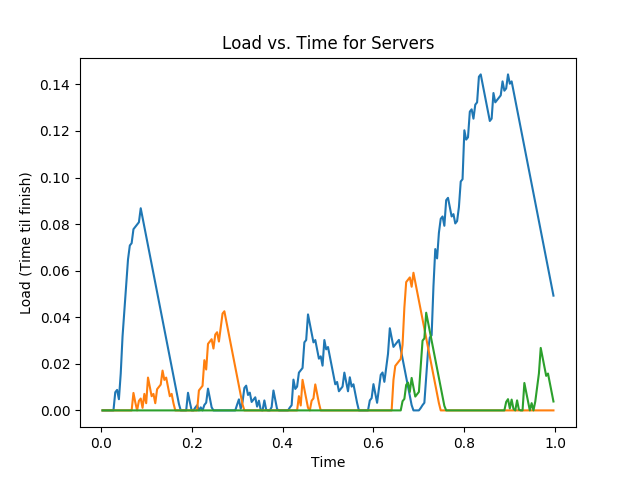
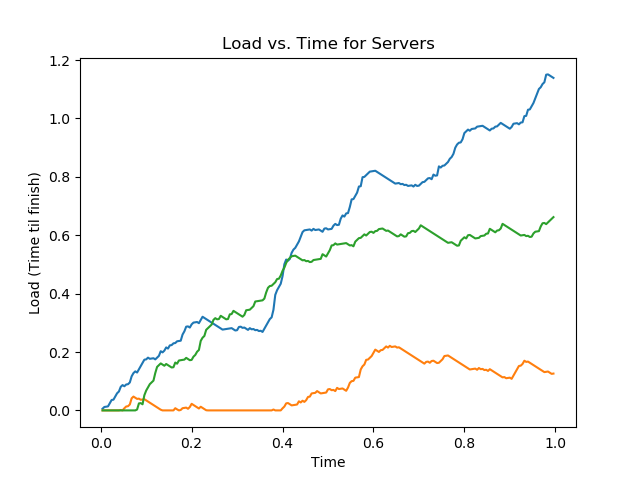
checkpoint2expirationofconnnectiontable

diff --git a/main.py b/main.py
@@ -11,7 +11,7 @@ processing_time = 0.005 # time per packet
 '''
 
 # Packet generation variables
-num_flows = 30
+num_flows = 100
 mean_flow_size = 10
 flow_size_stdev = 2
 max_flow_duration = 0.05
@@ -76,7 +76,9 @@ class LoadBalancer:
 	def assign_server_power_of_2_choices_with_memory(self, packet, servers, _):
 		#check this is a new flow by checking client id 
 		if packet.clientid in self.connection_table:
-			return self.connection_table[packet.clientid]
+			if packet.time_sent - self.connection_table[packet.clientid][1] < max_flow_duration:
+				self.connection_table[packet.clientid][1] = packet.time_sent
+				return self.connection_table[packet.clientid][0]
 
 		#pick 2 servers randomly
 		first_query_server = random.randint(0, num_servers - 1)
@@ -92,17 +94,17 @@ class LoadBalancer:
 
 		#pick server with least load, and store it in the connection table to ensure future consistency
 		if first_query_load < second_query_load:
-			self.connection_table[packet.clientid] = first_query_server
+			self.connection_table[packet.clientid] = [first_query_server, packet.time_sent]
 			return first_query_server
-		self.connection_table[packet.clientid] = second_query_server
+		self.connection_table[packet.clientid] = [first_query_server, packet.time_sent]
 		return second_query_server
-
-
 
 	def assign_server_power_of_x_choices_with_memory(self, packet, servers, x):
 		#check this is a new flow by checking client id 
 		if packet.clientid in self.connection_table:
-			return self.connection_table[packet.clientid]
+			if packet.time_sent - self.connection_table[packet.clientid][1] < max_flow_duration:
+				self.connection_table[packet.clientid][1] = packet.time_sent
+				return self.connection_table[packet.clientid][0]
 
 		if x > num_servers:
 			print("Number of servers too low for power of " + str(x) + " choices.")
@@ -115,7 +117,8 @@ class LoadBalancer:
 			loads.append(servers[num].get_load(packet.time_sent))
 
 		min_load_server = loads.index(min(loads))
-		self.connection_table[packet.clientid] = min_load_server
+
+		self.connection_table[packet.clientid] = [min_load_server, packet.time_sent]
 		return min_load_server
 
 	def __repr__(self):
@@ -195,19 +198,20 @@ def run_plotter(servers, assignment_method):
 	plt.savefig('plots/SmallSystemWithFlows/' + assignment_method + '/LoadVsTimeForServers.png')
 	plt.clf()
 
-def run_consistency_check(servers):
-	perFlowConsistent = True
-	for server in servers:
-		for otherServer in servers:
-			if server.id != otherServer.id:
-				for packet in server.packet_history:
-					if packet.clientid in [pckt.clientid for pckt in otherServer.packet_history]:
-						perFlowConsistent = False
-						break
-	if perFlowConsistent:
-		print("Per-Flow Consistency Maintained")
-	else:
-		print("Per-Flow Consistency Not Maintained")
+### Doesn't account for expired flows
+# def run_consistency_check(servers):
+# 	perFlowConsistent = True
+# 	for server in servers:
+# 		for otherServer in servers:
+# 			if server.id != otherServer.id:
+# 				for packet in server.packet_history:
+# 					if packet.clientid in [pckt.clientid for pckt in otherServer.packet_history]:
+# 						perFlowConsistent = False
+# 						break
+# 	if perFlowConsistent:
+# 		print("Per-Flow Consistency Maintained")
+# 	else:
+# 		print("Per-Flow Consistency Not Maintained")
 
 
 def run_simulation(assignment_method):
@@ -260,7 +264,7 @@ def run_simulation(assignment_method):
 		#print("Load Balancer " + str(lb_id) + " sent packet from client " + str(packet.clientid) + " to server " + str(server_id))
 
 	run_plotter(servers, assignment_method)
-	run_consistency_check(servers)
+	# run_consistency_check(servers)
 
 for method in assignment_methods:
 	run_simulation(method)
